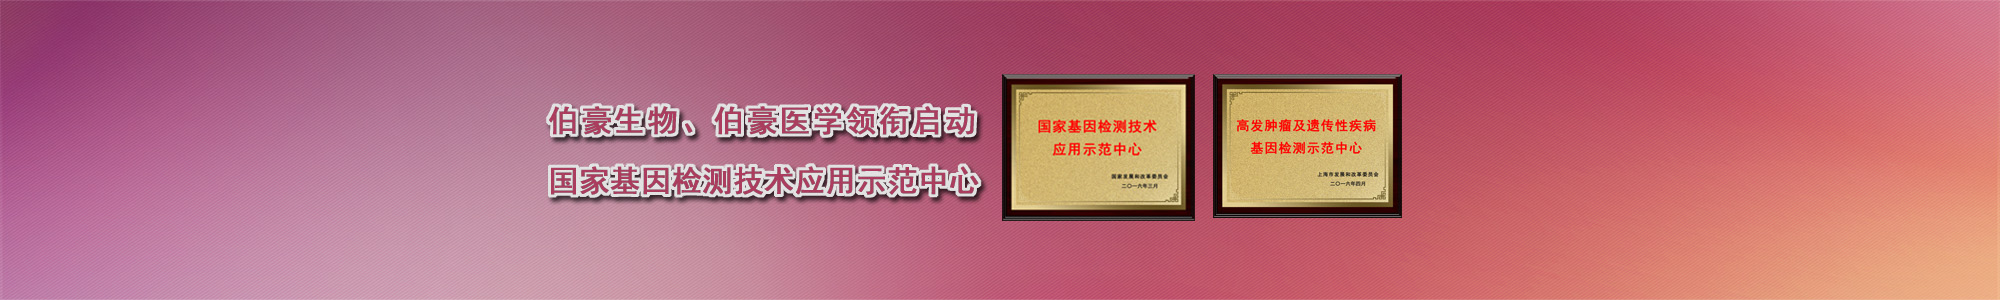
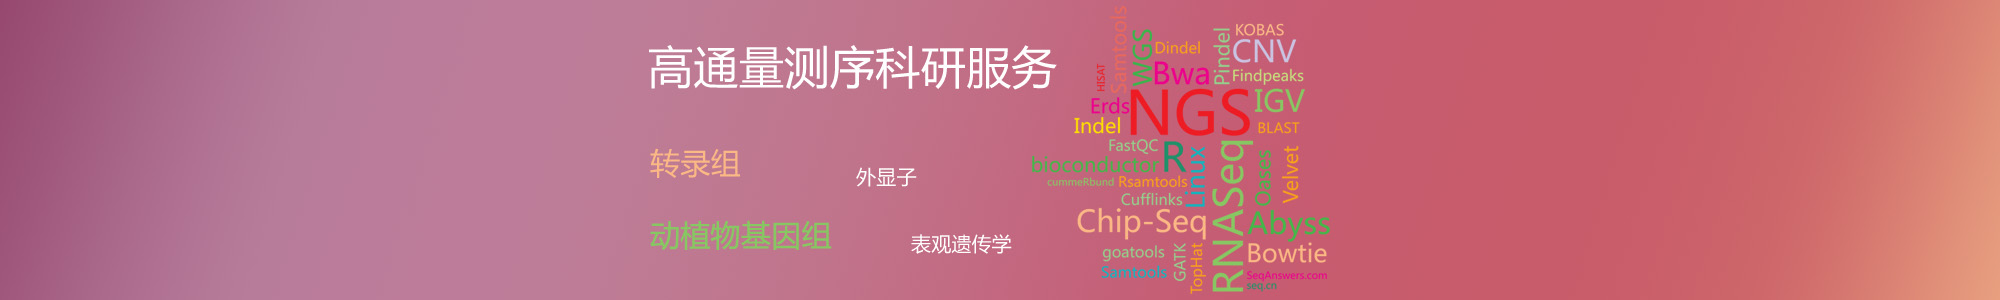
v0.3.7 replace 3 focus image

diff --git a/product.php b/product.php
@@ -87,7 +87,7 @@ include( DAWN_PATH . 'head.php');
                                 <div class="info">表观遗传学是指在基因组DNA序列没有改变的情况下，基因的表达调控和性状发生了可遗传的变化，主要包括脱氧核糖核酸的甲基化和组蛋白修饰两类。随着高通量组学技术的不断发展，表观基因组学将成为遗传学未来的研究热点之一。</div></div>
                             <div class="link-list clearfix">
 						
-                                <a  title="DNA甲基化芯片服务" class="more-cs">DNA甲基化芯片服务</a>
+                          
                                 <a  title="全基因组甲基化测序" class="more-cs">全基因组甲基化测序</a>
                         </li>
 						
@@ -102,7 +102,7 @@ include( DAWN_PATH . 'head.php');
                                     <a title="生物信息学研究服务">
                                         <img src="/uploads/product/ebioservice-ca03777dd8.jpg" alt="生物信息学研究服务"></a>
                                 </div>
-                                <div class="info">我们组建了专业的数据处理团队对生物芯片、测序数据进行专业的数据挖掘、分析。</div></div>
+                                <div class="info">我们组建了专业的数据处理团队对测序数据进行专业的数据挖掘、分析。</div></div>
                             <div class="link-list clearfix">
 
                                 <a title="mRNA测序数据分析" class="more-cs">mRNA测序数据分析</a>

diff --git a/index.php b/index.php
@@ -9,9 +9,9 @@ include( DAWN_PATH . 'head.php');
      <!-- 代码 开始 --> 
      <div class="kuzhan"> 
       <ul class="ebioservicepic"> 
-       <li style="background-image: url(./uploads/slides/ebioservice-9068c85a96.jpg);"><a href="./support/detail/605.html" target="_blank">&nbsp;</a></li> 
-       <li style="background-image: url(./uploads/slides/ebioservice-3d9bf48f3b.jpg);"><a href="./news/news/3169.html" target="_blank">&nbsp;</a></li> 
-       <li style="background-image: url(./uploads/slides/ebioservice-5a2204adb0.jpg);"><a href="./news/news/3128.html" target="_blank">&nbsp;</a></li> 
+       <li style="background-image: url(./uploads/slides/ebioservice-7a1fef5943.jpg);"><a href="./product.php" target="_blank">&nbsp;</a></li> 
+       <li style="background-image: url(./uploads/slides/ebioservice-3d9bf48f3b.jpg);"><a href="./product.php" target="_blank">&nbsp;</a></li> 
+       <li style="background-image: url(./uploads/slides/ebioservice-5a2204adb0.jpg);"><a href="./product.php" target="_blank">&nbsp;</a></li> 
 
       </ul> 
       <a class="prev" href="javascript:void(0)"></a> 
